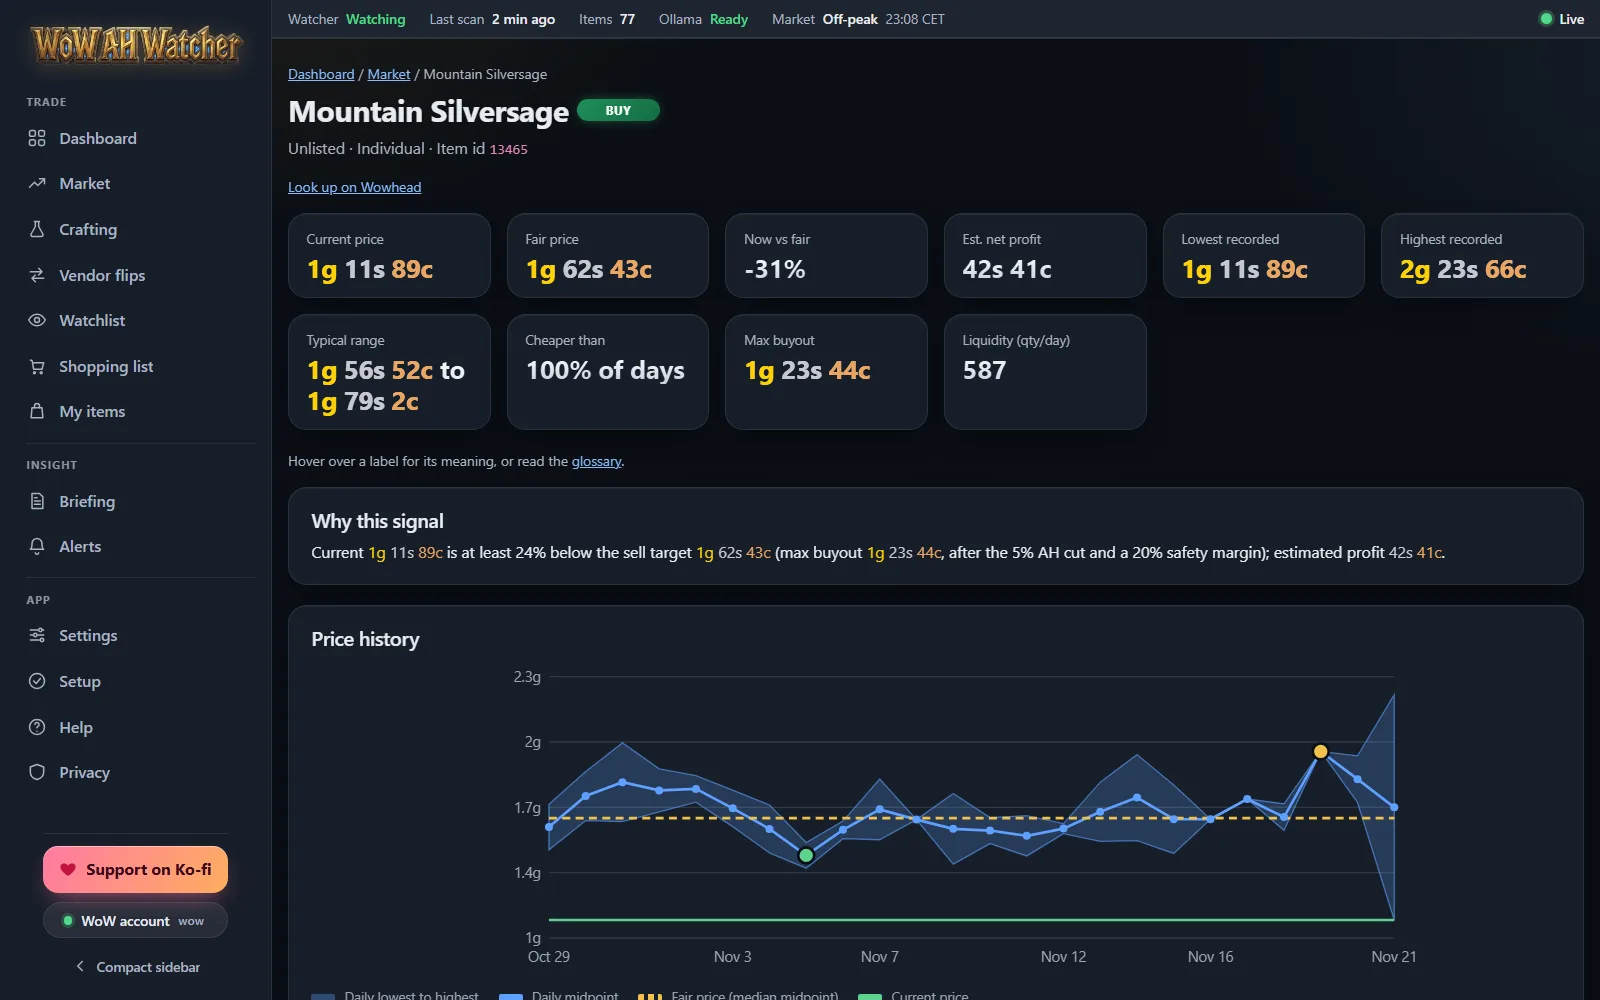
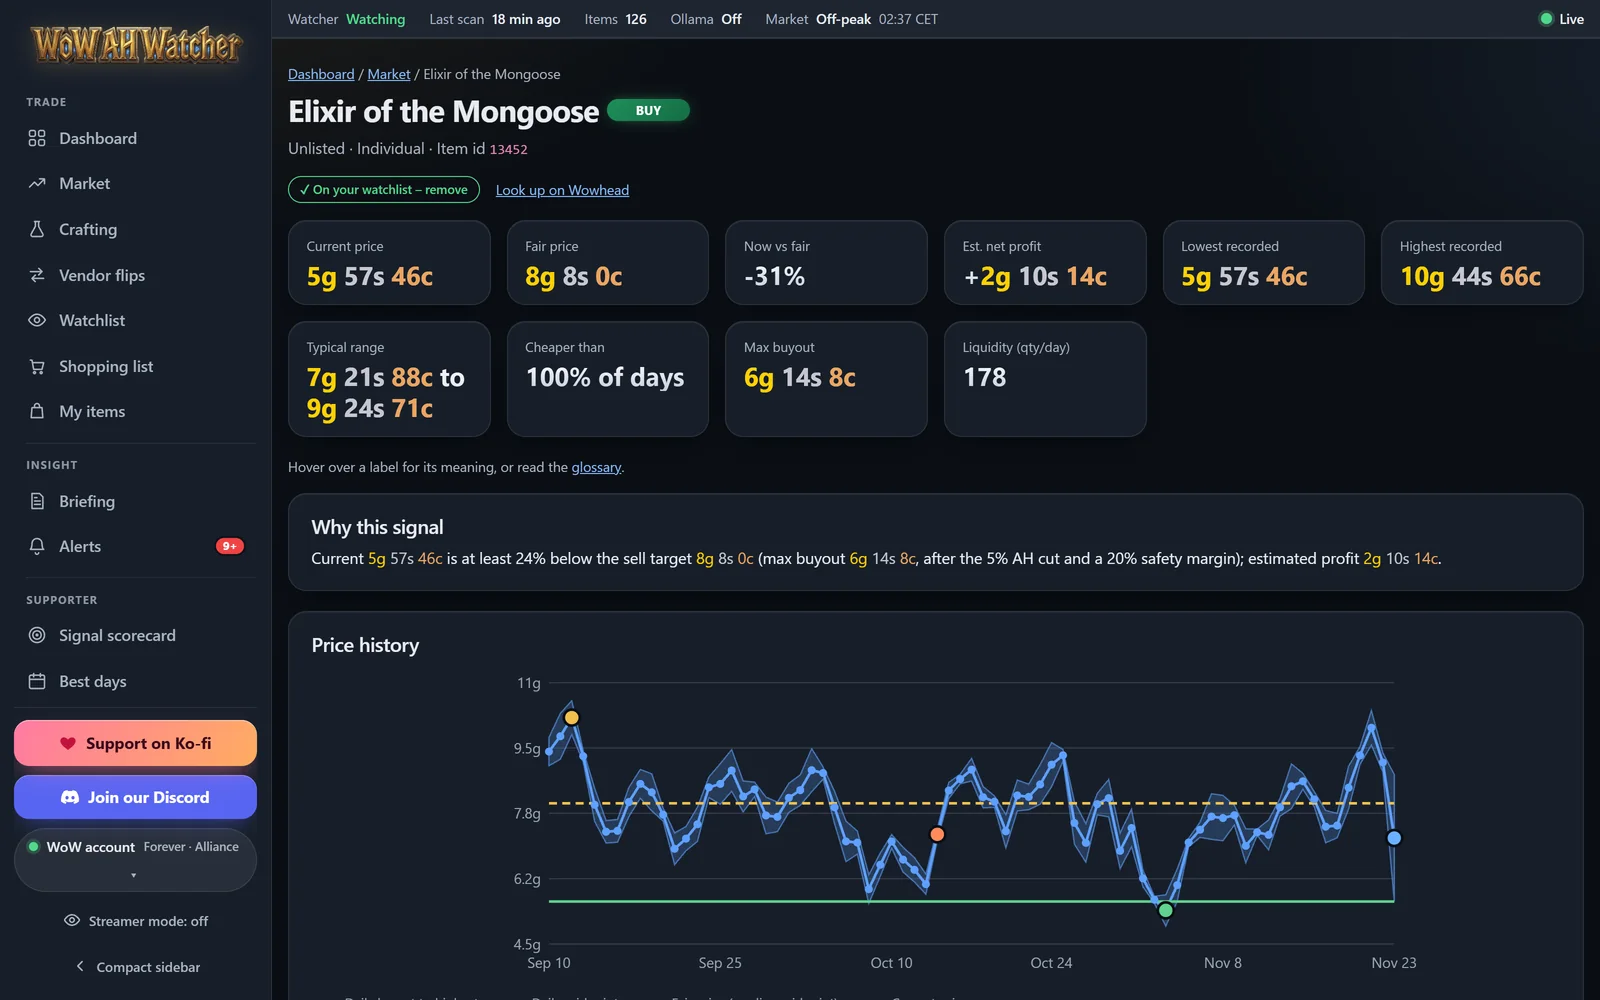
Refresh screenshots with showcase data and add supporter and remote dashboard showcase

diff --git a/index.html b/index.html
@@ -17,14 +17,14 @@
 <meta property="og:title" content="WoW AH Watcher: know what to buy, craft and sell before the Auction House does">
 <meta property="og:description" content="Turn your Auctionator scans into BUY signals, true crafting profit, shopping lists and deal alerts. Free, 100% local, no accounts.">
 <meta property="og:url" content="https://wowahwatcher.com/">
-<meta property="og:image" content="https://wowahwatcher.com/assets/site/og-image.jpg?v=6">
+<meta property="og:image" content="https://wowahwatcher.com/assets/site/og-image.jpg?v=7">
 <meta property="og:image:width" content="1200">
 <meta property="og:image:height" content="630">
 <meta property="og:image:alt" content="WoW AH Watcher dashboard showing BUY signals, crafting profit and a written market briefing">
 <meta name="twitter:card" content="summary_large_image">
 <meta name="twitter:title" content="WoW AH Watcher: Auctionator market signals, crafting profit and deal alerts">
 <meta name="twitter:description" content="Free, 100% local Windows app that tells you what to buy, craft and sell in the World of Warcraft Auction House.">
-<meta name="twitter:image" content="https://wowahwatcher.com/assets/site/og-image.jpg?v=6">
+<meta name="twitter:image" content="https://wowahwatcher.com/assets/site/og-image.jpg?v=7">
 
 <link rel="icon" href="favicon.ico" sizes="any">
 <link rel="icon" type="image/png" sizes="32x32" href="assets/site/favicon-32.png">
@@ -56,7 +56,12 @@
         "https://wowahwatcher.com/assets/screens/vendorflips.png",
         "https://wowahwatcher.com/assets/screens/shopping.png",
         "https://wowahwatcher.com/assets/screens/myitems.png",
-        "https://wowahwatcher.com/assets/screens/briefing.png"
+        "https://wowahwatcher.com/assets/screens/briefing.png",
+        "https://wowahwatcher.com/assets/screens/bestdays.png",
+        "https://wowahwatcher.com/assets/screens/ledger.png",
+        "https://wowahwatcher.com/assets/screens/advisor.png",
+        "https://wowahwatcher.com/assets/screens/scorecard.png",
+        "https://wowahwatcher.com/assets/screens/watchlist.png"
       ],
       "offers": { "@type": "Offer", "price": "0", "priceCurrency": "USD", "description": "Free for personal, non-commercial use" },
       "author": { "@type": "Person", "name": "nanidev", "url": "https://github.com/nanidev" },
@@ -113,6 +118,7 @@
     <nav class="nav-links" id="menu" aria-label="Main">
       <a href="#showcase">Showcase</a>
       <a href="#features">Features</a>
+      <a href="#supporters">Supporters</a>
       <a href="#privacy">Privacy</a>
       <a href="#start">Get started</a>
       <a href="#faq">FAQ</a>
@@ -335,6 +341,62 @@
           <p style="max-width:52rem">The first run finds your WoW account, helps you install the two small helper addons (item names, vendor prices and recipes) and tells you exactly what is missing, in plain language. A full built-in guide explains every page, every signal and the in-game commands. No console window, no command line: it opens in your browser like a normal Windows app.</p>
         </article>
       </div>
+    </div>
+  </section>
+
+  <!-- SUPPORTERS -->
+  <section class="section" id="supporters" aria-labelledby="sup-title" style="padding-top:0">
+    <div class="wrap">
+      <div class="center reveal">
+        <span class="eyebrow">Supporter extras</span>
+        <h2 class="h2" id="sup-title">Go further when you want to.</h2>
+        <p class="lead">The whole app is free. Supporters unlock extra pages and tools for planning, tracking and sharing safely, all calculated on your own PC. The screenshots use made-up characters and prices.</p>
+      </div>
+      <div class="show reveal" id="tour2">
+        <div class="tabs" role="tablist" aria-label="Supporter pages" aria-orientation="vertical">
+          <button class="tab" role="tab" id="s0" aria-controls="viewer2" aria-selected="true"><strong>Best days</strong><p>A weekday heat map of when each item is cheapest and dearest, with your watchlist on top, so you buy and list on the right day.</p></button>
+          <button class="tab" role="tab" id="s1" aria-controls="viewer2" aria-selected="false" tabindex="-1"><strong>Profit ledger</strong><p>What you really sold and bought: a monthly goal with a pace line, a bar for every week and the true profit per item.</p></button>
+          <button class="tab" role="tab" id="s2" aria-controls="viewer2" aria-selected="false" tabindex="-1"><strong>Trade advisor</strong><p>A plan for today built from what you hold: what to sell now, what to buy and which crafts still pay after the cut.</p></button>
+          <button class="tab" role="tab" id="s3" aria-controls="viewer2" aria-selected="false" tabindex="-1"><strong>Signal scorecard</strong><p>An honest report card. See how past BUY signals really played out, with the win rate and the average gain.</p></button>
+          <button class="tab" role="tab" id="s4" aria-controls="viewer2" aria-selected="false" tabindex="-1"><strong>Streamer mode</strong><p>One click hides names, folders and gold. Choose whether your items stay visible, so you can stream or share a screenshot safely.</p></button>
+        </div>
+        <div class="viewer" id="viewer2" role="tabpanel" aria-live="polite">
+          <div class="device">
+            <div class="bar" aria-hidden="true"><i></i><i></i><i></i><em>localhost:5186</em></div>
+            <div class="shots">
+              <img class="on" src="assets/site/bestdays-1600.webp" srcset="assets/site/bestdays-800.webp 800w, assets/site/bestdays-1600.webp 1600w" sizes="(max-width: 1000px) 100vw, 760px" width="1600" height="1000" alt="Best days page with a weekday heat map of the cheapest and dearest days for each item" loading="lazy">
+              <img src="assets/site/ledger-1600.webp" srcset="assets/site/ledger-800.webp 800w, assets/site/ledger-1600.webp 1600w" sizes="(max-width: 1000px) 100vw, 760px" width="1600" height="1000" alt="Profit ledger with a monthly goal, week by week results and profit per item" loading="lazy">
+              <img src="assets/site/advisor-1600.webp" srcset="assets/site/advisor-800.webp 800w, assets/site/advisor-1600.webp 1600w" sizes="(max-width: 1000px) 100vw, 760px" width="1600" height="1000" alt="Trade advisor with items to sell now, items to buy and profitable crafts" loading="lazy">
+              <img src="assets/site/scorecard-1600.webp" srcset="assets/site/scorecard-800.webp 800w, assets/site/scorecard-1600.webp 1600w" sizes="(max-width: 1000px) 100vw, 760px" width="1600" height="1000" alt="Signal scorecard showing how past BUY signals played out" loading="lazy">
+              <img src="assets/site/streamer-1600.webp" srcset="assets/site/streamer-800.webp 800w, assets/site/streamer-1600.webp 1600w" sizes="(max-width: 1000px) 100vw, 760px" width="1600" height="1000" alt="My items page in streamer mode with names and gold blurred while the items stay visible" loading="lazy">
+            </div>
+          </div>
+          <div class="cap">
+            <span class="cap-no">01 / 05</span>
+            <h3 class="cap-title">Best days</h3>
+            <p class="cap-text">A weekday heat map of when each item is cheapest and dearest, with your watchlist on top, so you buy and list on the right day.</p>
+          </div>
+        </div>
+      </div>
+
+      <div class="center reveal" id="remote" style="margin-top:clamp(80px,11vw,150px)">
+        <span class="eyebrow">Remote dashboard</span>
+        <h2 class="h2" id="remote-title">Your market, on every screen.</h2>
+        <p class="lead">Check your goal and your best buys from the sofa. Pair a phone, a tablet, a laptop or the TV once with a short PIN, and the dashboard follows you around the house. It is read-only, it adapts to the screen, and it follows your light or dark theme.</p>
+      </div>
+      <div class="devices reveal" role="group" aria-label="The Remote dashboard on a TV, a desktop, a tablet and two phones">
+        <div class="dv dv-tv" style="left:27.12%;top:0;width:54.24%;--d:.05s"><img src="assets/site/remote-tv-1920.webp" srcset="assets/site/remote-tv-960.webp 960w, assets/site/remote-tv-1920.webp 1920w" sizes="(max-width: 1000px) 60vw, 640px" width="1920" height="1080" alt="The Remote dashboard on a TV, showing a list of best buys beside the details of one item" loading="lazy"></div>
+        <div class="dv dv-desktop" style="left:0;top:35.53%;width:37.29%;--d:.2s"><img src="assets/site/remote-desktop-1440.webp" srcset="assets/site/remote-desktop-720.webp 720w, assets/site/remote-desktop-1440.webp 1440w" sizes="(max-width: 1000px) 40vw, 440px" width="1440" height="900" alt="The Remote dashboard on a desktop screen, showing the profit ledger with a monthly goal and week by week results" loading="lazy"></div>
+        <div class="dv dv-tablet" style="left:76.27%;top:38.16%;width:23.73%;--d:.3s"><img src="assets/site/remote-tablet-820.webp" srcset="assets/site/remote-tablet-410.webp 410w, assets/site/remote-tablet-820.webp 820w" sizes="(max-width: 1000px) 24vw, 280px" width="820" height="1180" alt="The Remote dashboard on a tablet, showing the market list with BUY signals" loading="lazy"></div>
+        <div class="dv dv-phone" style="left:42.8%;top:52.63%;width:12.71%;--d:.4s"><img src="assets/site/remote-phone-780.webp" srcset="assets/site/remote-phone-390.webp 390w, assets/site/remote-phone-780.webp 780w" sizes="(max-width: 1000px) 13vw, 150px" width="780" height="1688" alt="The Remote dashboard on a phone in the dark theme, showing the monthly goal and the best buys" loading="lazy"></div>
+        <div class="dv dv-phone" style="left:56.36%;top:56.58%;width:12.71%;--d:.5s"><img src="assets/site/remote-phone-light-780.webp" srcset="assets/site/remote-phone-light-390.webp 390w, assets/site/remote-phone-light-780.webp 780w" sizes="(max-width: 1000px) 13vw, 150px" width="780" height="1688" alt="The Remote dashboard on a phone in the light theme" loading="lazy"></div>
+      </div>
+      <ul class="dv-legend reveal" aria-label="Screen sizes">
+        <li><b>Phone</b><span>Your goal and best buys, one thumb away.</span></li>
+        <li><b>Tablet</b><span>A slim side rail and two columns.</span></li>
+        <li><b>Desktop</b><span>A full sidebar with details alongside.</span></li>
+        <li><b>TV</b><span>Big and readable from across the room.</span></li>
+      </ul>
     </div>
   </section>
 

diff --git a/assets/site/site.js b/assets/site/site.js
@@ -126,62 +126,63 @@
   })();
 
   /* Product tour: tabs with optional auto-advance */
-  var tabs = $$('.tab');
-  var shots = $$('.shots img');
-  var capNo = $('#cap-no');
-  var capTitle = $('#cap-title');
-  var capText = $('#cap-text');
   var pad = function (n) { return n < 10 ? '0' + n : '' + n; };
-  var tour = $('#tour');
-  var current = 0;
-  var auto = !reduce;
-  var visible = false;
+  $$('.show').forEach(function (tour) {
+    var tabs = $$('.tab', tour);
+    var shots = $$('.shots img', tour);
+    var capNo = $('.cap-no', tour);
+    var capTitle = $('.cap-title', tour);
+    var capText = $('.cap-text', tour);
+    var current = 0;
+    var auto = !reduce;
+    var visible = false;
 
-  function select(i, byUser) {
-    current = (i + tabs.length) % tabs.length;
-    tabs.forEach(function (t, k) {
-      var on = k === current;
-      t.setAttribute('aria-selected', on ? 'true' : 'false');
-      t.tabIndex = on ? 0 : -1;
-      t.classList.remove('auto', 'paused');
-    });
-    shots.forEach(function (s, k) { s.classList.toggle('on', k === current); });
-    if (capNo) { capNo.textContent = pad(current + 1) + ' / ' + pad(tabs.length); }
-    if (capTitle) { capTitle.textContent = tabs[current].querySelector('strong').textContent; }
-    if (capText) { capText.textContent = tabs[current].querySelector('p').textContent; }
-    if (byUser) {
-      auto = false;
-    } else if (auto && visible) {
-      // Restart the progress bar animation for the new tab
-      void tabs[current].offsetWidth;
-      tabs[current].classList.add('auto');
+    function select(i, byUser) {
+      current = (i + tabs.length) % tabs.length;
+      tabs.forEach(function (t, k) {
+        var on = k === current;
+        t.setAttribute('aria-selected', on ? 'true' : 'false');
+        t.tabIndex = on ? 0 : -1;
+        t.classList.remove('auto', 'paused');
+      });
+      shots.forEach(function (s, k) { s.classList.toggle('on', k === current); });
+      if (capNo) { capNo.textContent = pad(current + 1) + ' / ' + pad(tabs.length); }
+      if (capTitle) { capTitle.textContent = tabs[current].querySelector('strong').textContent; }
+      if (capText) { capText.textContent = tabs[current].querySelector('p').textContent; }
+      if (byUser) {
+        auto = false;
+      } else if (auto && visible) {
+        // Restart the progress bar animation for the new tab
+        void tabs[current].offsetWidth;
+        tabs[current].classList.add('auto');
+      }
+      if (window.innerWidth <= 1000 && byUser) {
+        tabs[current].scrollIntoView({ block: 'nearest', inline: 'center', behavior: reduce ? 'auto' : 'smooth' });
+      }
     }
-    if (window.innerWidth <= 1000 && byUser) {
-      tabs[current].scrollIntoView({ block: 'nearest', inline: 'center', behavior: reduce ? 'auto' : 'smooth' });
-    }
-  }
-  tabs.forEach(function (t, i) {
-    t.addEventListener('click', function () { select(i, true); });
-    t.addEventListener('keydown', function (e) {
-      var d = e.key === 'ArrowDown' || e.key === 'ArrowRight' ? 1 : e.key === 'ArrowUp' || e.key === 'ArrowLeft' ? -1 : 0;
-      if (d) { e.preventDefault(); select(current + d, true); tabs[current].focus(); }
-      if (e.key === 'Home') { e.preventDefault(); select(0, true); tabs[0].focus(); }
-      if (e.key === 'End') { e.preventDefault(); select(tabs.length - 1, true); tabs[tabs.length - 1].focus(); }
+    tabs.forEach(function (t, i) {
+      t.addEventListener('click', function () { select(i, true); });
+      t.addEventListener('keydown', function (e) {
+        var d = e.key === 'ArrowDown' || e.key === 'ArrowRight' ? 1 : e.key === 'ArrowUp' || e.key === 'ArrowLeft' ? -1 : 0;
+        if (d) { e.preventDefault(); select(current + d, true); tabs[current].focus(); }
+        if (e.key === 'Home') { e.preventDefault(); select(0, true); tabs[0].focus(); }
+        if (e.key === 'End') { e.preventDefault(); select(tabs.length - 1, true); tabs[tabs.length - 1].focus(); }
+      });
+      t.addEventListener('animationend', function () { if (auto && i === current) select(current + 1, false); });
     });
-    t.addEventListener('animationend', function () { if (auto && i === current) select(current + 1, false); });
+    if (tour) {
+      tour.addEventListener('pointerenter', function () { tabs[current].classList.add('paused'); });
+      tour.addEventListener('pointerleave', function () { tabs[current].classList.remove('paused'); });
+      if ('IntersectionObserver' in window) {
+        new IntersectionObserver(function (entries) {
+          visible = entries[0].isIntersecting;
+          if (auto) {
+            if (visible) { tabs[current].classList.add('auto'); } else { tabs[current].classList.remove('auto'); }
+          }
+        }, { threshold: 0.4 }).observe(tour);
+      }
+    }
   });
-  if (tour) {
-    tour.addEventListener('pointerenter', function () { tabs[current].classList.add('paused'); });
-    tour.addEventListener('pointerleave', function () { tabs[current].classList.remove('paused'); });
-    if ('IntersectionObserver' in window) {
-      new IntersectionObserver(function (entries) {
-        visible = entries[0].isIntersecting;
-        if (auto) {
-          if (visible) { tabs[current].classList.add('auto'); } else { tabs[current].classList.remove('auto'); }
-        }
-      }, { threshold: 0.4 }).observe(tour);
-    }
-  }
 
   /* Typing demo in the briefing card */
   var typer = $('#typer');

diff --git a/assets/site/site.css b/assets/site/site.css
@@ -181,6 +181,30 @@ h1, h2, h3, p { margin: 0; }
 .shots img { position: absolute; inset: 0; width: 100%; height: 100%; object-fit: cover; opacity: 0; transform: scale(1.03); transition: opacity .7s var(--ease), transform 1.1s var(--ease); }
 .shots img.on { opacity: 1; transform: none; }
 
+/* Remote dashboard on four screens. Everything inside scales with the stage width (cqw). */
+.devices { position: relative; margin: 64px auto 0; max-width: 1180px; aspect-ratio: 1180 / 760; container-type: inline-size; }
+.devices::before { content: ""; position: absolute; inset: -6% 0 -2%; z-index: 0; pointer-events: none; background: radial-gradient(50% 55% at 52% 42%, rgba(240, 189, 87, .16), transparent 70%), radial-gradient(40% 50% at 12% 70%, rgba(125, 182, 255, .12), transparent 70%); }
+.dv { position: absolute; z-index: 2; background: linear-gradient(145deg, #353d4d, #12161e 55%, #232a37); box-shadow: 0 3.2cqw 6cqw -1.6cqw rgba(0, 0, 0, .85), 0 0 0 1px rgba(255, 255, 255, .16) inset, 0 0 0 1px rgba(0, 0, 0, .65); }
+.dv img { display: block; width: 100%; height: auto; background: #0b0f15; }
+.dv-tv { z-index: 1; padding: .5cqw; border-radius: 1cqw; }
+.dv-tv img { border-radius: .6cqw; }
+.dv-desktop { padding: .7cqw .7cqw 1.5cqw; border-radius: 1cqw; }
+.dv-desktop img { border-radius: .45cqw; }
+.dv-tv::before, .dv-desktop::before { content: ""; position: absolute; top: 100%; left: 50%; width: 5%; height: 2cqw; transform: translateX(-50%); background: linear-gradient(90deg, #12161e, #2b3341, #12161e); }
+.dv-tv::after, .dv-desktop::after { content: ""; position: absolute; top: calc(100% + 1.9cqw); left: 50%; width: 26%; height: .55cqw; transform: translateX(-50%); border-radius: .3cqw; background: linear-gradient(#303847, #151a23); box-shadow: 0 1.2cqw 2cqw -.6cqw rgba(0, 0, 0, .7); }
+.dv-tablet { padding: .8cqw; border-radius: 2.4cqw; }
+.dv-tablet img { border-radius: 1.7cqw; }
+.dv-phone { padding: .55cqw; border-radius: 3.4cqw; z-index: 3; }
+.dv-phone img { border-radius: 2.9cqw; }
+.dv-phone::after { content: ""; position: absolute; right: -.25cqw; top: 17%; width: .25cqw; height: 5cqw; border-radius: .2cqw; background: #2d3544; }
+.js .devices .dv { opacity: 0; transform: translateY(5cqw) scale(.96); transition: opacity .9s var(--ease), transform 1.1s var(--ease); transition-delay: var(--d, 0s); }
+.js .devices.in .dv { opacity: 1; transform: none; }
+.js .devices.reveal { filter: none; transform: none; }
+.dv-legend { list-style: none; margin: 56px 0 0; padding: 0; display: grid; grid-template-columns: repeat(4, 1fr); gap: 14px; }
+.dv-legend li { padding: 18px 20px; border-radius: 22px; background: var(--glass); border: 1px solid var(--line); backdrop-filter: blur(14px); }
+.dv-legend b { display: block; color: var(--gold); font-size: .82rem; letter-spacing: .14em; text-transform: uppercase; margin-bottom: 6px; }
+.dv-legend span { color: var(--muted); font-size: .98rem; line-height: 1.45; }
+
 /* Bento */
 .bento { display: grid; grid-template-columns: repeat(6, 1fr); gap: 18px; margin-top: 64px; }
 .card {
@@ -310,7 +334,12 @@ h1, h2, h3, p { margin: 0; }
   .span4 { grid-column: span 2; }
   .privacy { grid-template-columns: 1fr; }
   .req { grid-template-columns: repeat(2, 1fr); }
+  .dv-legend { grid-template-columns: repeat(2, 1fr); }
   .float { display: none; }
+}
+@media (min-width: 761px) and (max-width: 960px) {
+  .nav-links a { padding: 8px 9px; font-size: .9rem; }
+  .nav-support { display: none; }
 }
 @media (max-width: 760px) {
   .nav-links { position: absolute; top: calc(100% + 10px); left: 24px; right: 24px; flex-direction: column; align-items: stretch; padding: 12px; border-radius: 26px; background: var(--glass-strong); border: 1px solid var(--line-strong); backdrop-filter: blur(24px) saturate(180%); opacity: 0; transform: translateY(-10px) scale(.97); pointer-events: none; transition: opacity .3s, transform .4s var(--ease); }
@@ -327,6 +356,8 @@ h1, h2, h3, p { margin: 0; }
   .bento { grid-template-columns: 1fr; }
   .span2, .span3, .span4, .span6 { grid-column: span 1; }
   .req { grid-template-columns: 1fr; }
+  .dv-legend { grid-template-columns: 1fr; margin-top: 40px; }
+  .devices { margin-top: 44px; }
   .mini { grid-template-columns: 1fr; }
   .support { grid-template-columns: 1fr; }
   .wrap { width: calc(100% - 32px); }

diff --git a/README.md b/README.md
@@ -110,6 +110,38 @@ The whole app is free. Supporters (a coffee on Ko-fi unlocks it) can sign in onc
 
 Signing in is optional and only confirms that you are a supporter. Everything that was free stays free.
 
+<div align="center">
+<img src="assets/remote-devices.png" alt="The Remote dashboard on a TV, a desktop, a tablet and two phones" width="92%">
+<br><sub>Remote dashboard: pair a phone, tablet, laptop or TV once with a short PIN. It is read-only, adapts to the screen and follows your light or dark theme.</sub>
+</div>
+
+<div align="center">
+<img src="assets/screens/ledger.png" alt="The Profit ledger with a monthly goal, week by week results and profit per item" width="92%">
+<br><sub>Profit ledger: your real sales and purchases, a monthly goal with a pace line, and the true profit per item.</sub>
+</div>
+
+<div align="center">
+<img src="assets/screens/bestdays.png" alt="The Best days page with a weekday heat map of cheap and dear days" width="92%">
+<br><sub>Best days: when each item is usually cheapest and dearest, with your watchlist on top.</sub>
+</div>
+
+<div align="center">
+<img src="assets/screens/advisor.png" alt="The Trade advisor with items to sell now, items to buy and profitable crafts" width="92%">
+<br><sub>Trade advisor: a plan for today built from what you hold and the current market.</sub>
+</div>
+
+<div align="center">
+<img src="assets/screens/scorecard.png" alt="The Signal scorecard showing how past BUY signals played out" width="92%">
+<br><sub>Signal scorecard: how often the Buy signal really paid off, replayed over your own history.</sub>
+</div>
+
+<div align="center">
+<img src="assets/screens/streamer.png" alt="The My items page in streamer mode with names and gold blurred" width="92%">
+<br><sub>Streamer mode: hide names, folders and gold, and choose whether your items stay visible.</sub>
+</div>
+
+<sub>All screenshots use made-up characters and prices.</sub>
+
 ---
 
 ## Everything else in the box
